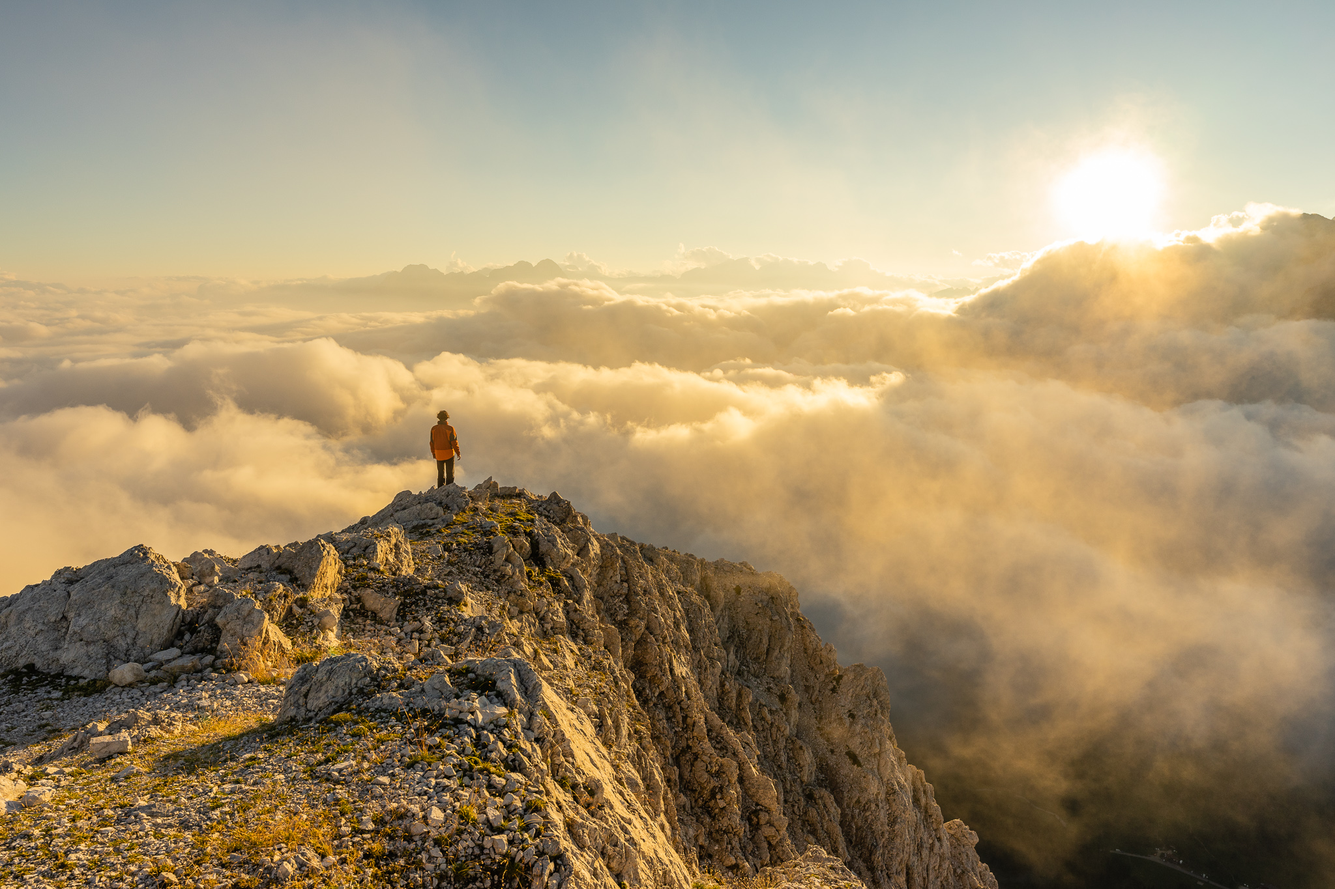
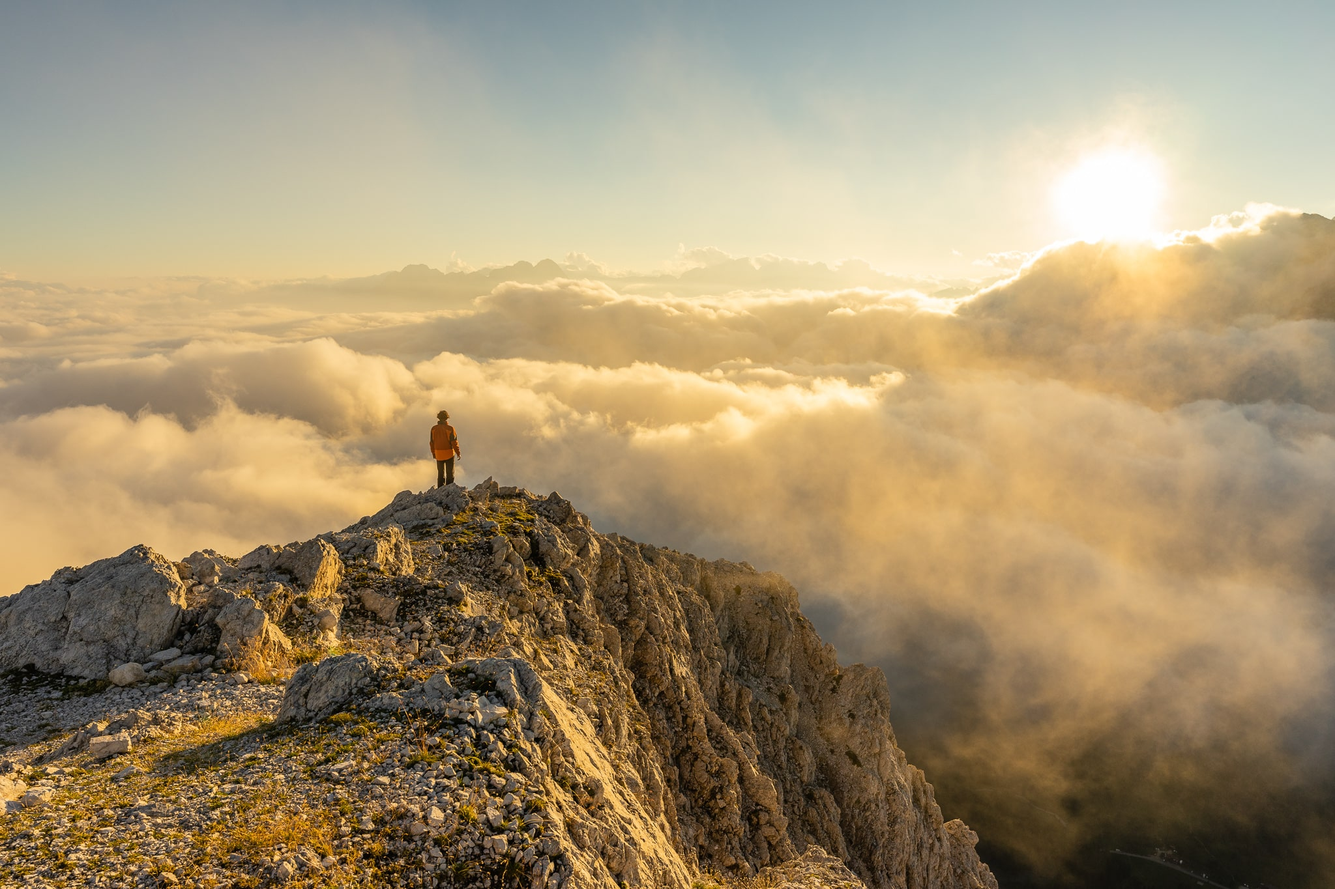
fixes

diff --git a/src/onepirate/modules/views/ProductCategories.tsx b/src/onepirate/modules/views/ProductCategories.tsx
@@ -79,19 +79,19 @@ const images = [
   {
     url: "./IMG_4712.JPG",
     title: "Artisti del Silenzio",
-    article: "artisti-del-silenzio",
+    article: "artisti_del_silenzio",
     width: "33.33%",
   },
   {
     url: "./IMG_0166.JPG",
     title: "PdZ incontra Matteo Righetto",
-    article: "pdz-incontra-matteo-righetto",
+    article: "pdz_incontra_matteo_righetto",
     width: "33.33%",
   },
   {
     url: "./IMG_4713.JPG",
-    title: "Rifioritura Fest",
-    article: "rifioritura-fest",
+    title: "Rifioriture Fest",
+    article: "rifioriture_fest",
     width: "33.33%",
   }
 ];

diff --git a/src/onepirate/modules/views/ProductHero.tsx b/src/onepirate/modules/views/ProductHero.tsx
@@ -4,7 +4,7 @@ import Typography from "../components/Typography";
 import ProductHeroLayout from "./ProductHeroLayout";
 import { Link as RouterLink } from "react-router-dom";
 
-const backgroundImage = "./DSC08781.jpg";
+const backgroundImage = "./DSC08782.jpg";
 
 export default function ProductHero() {
   return (
